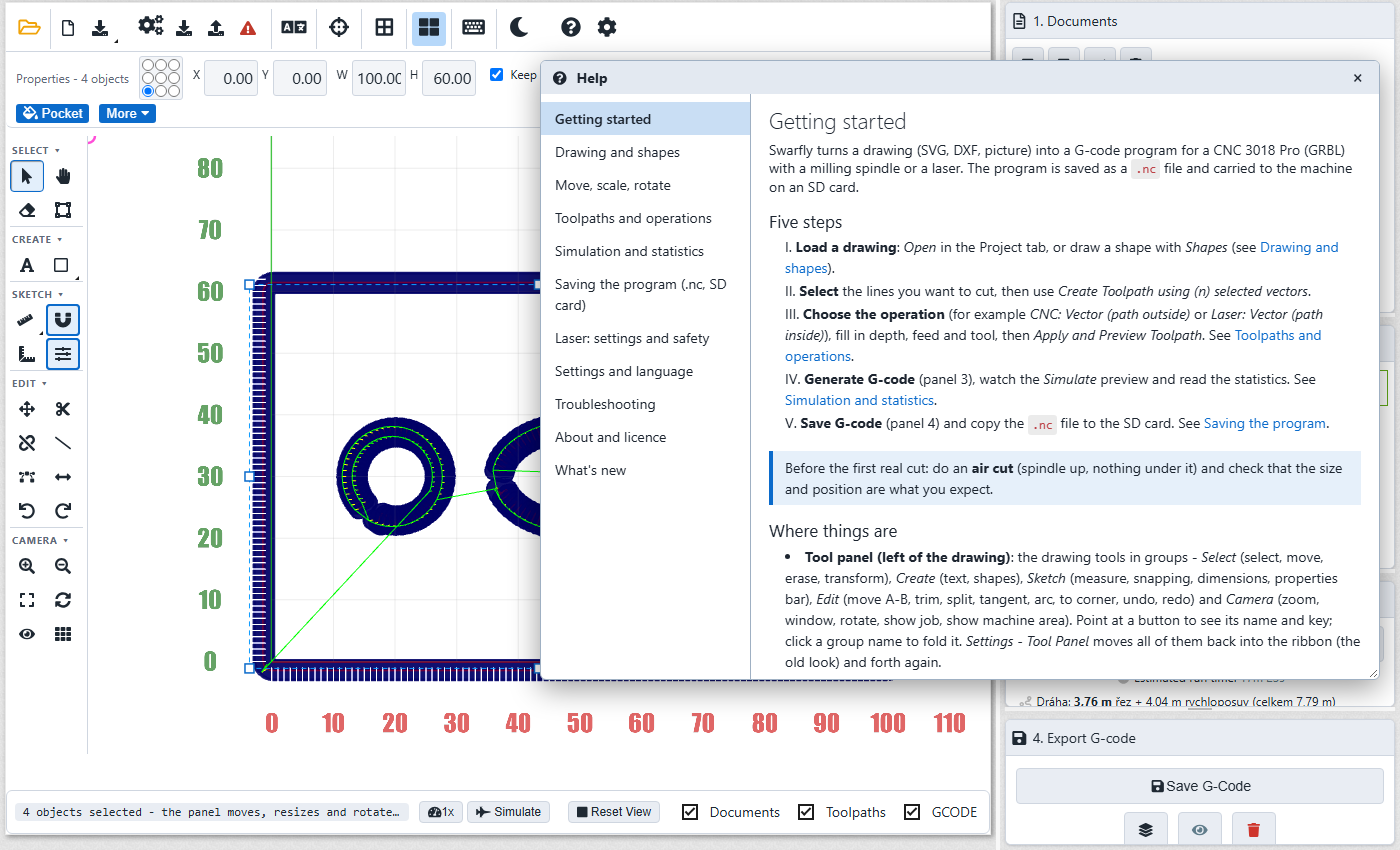
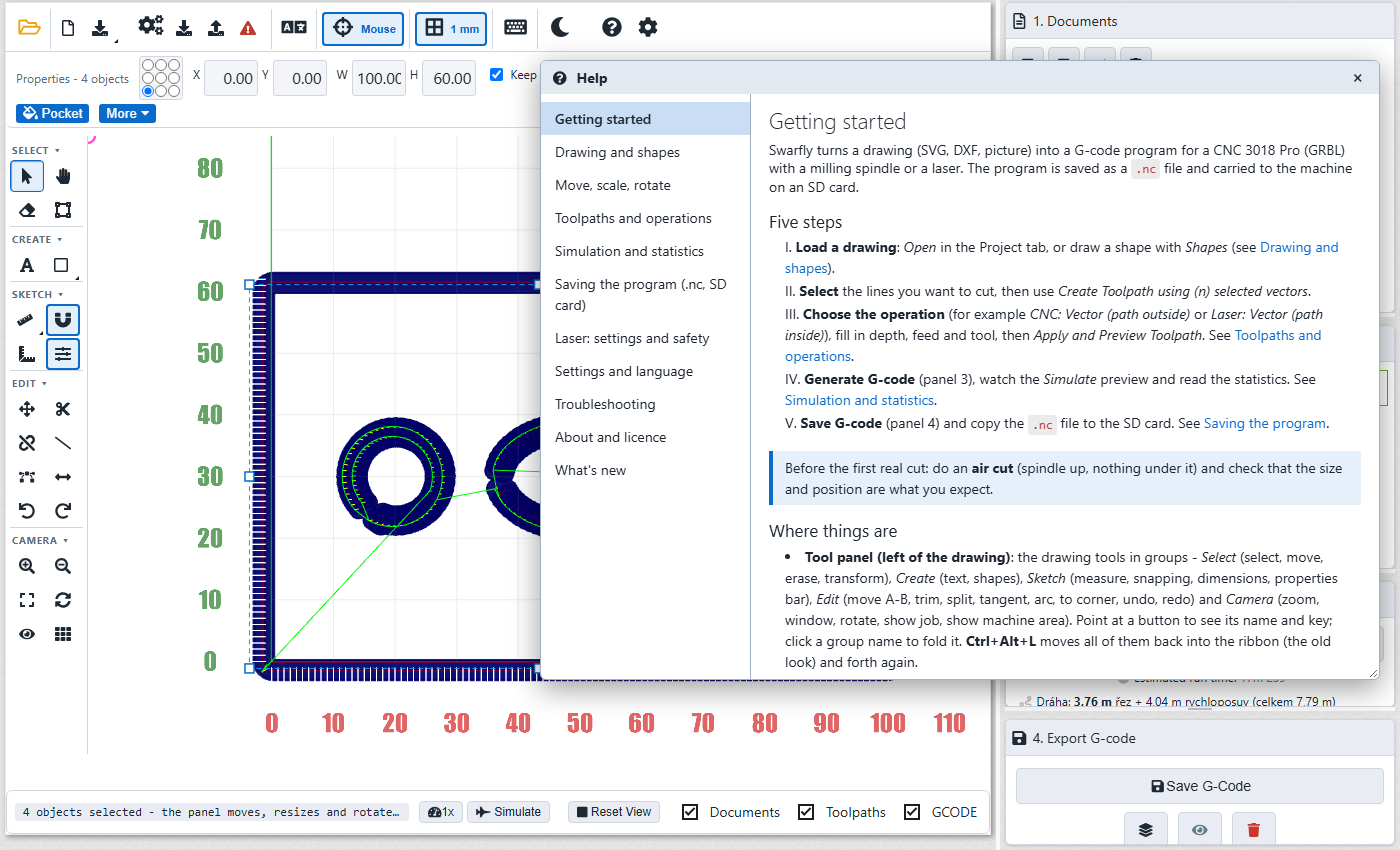
Swarfly 1.18.0: pressed state and value labels on the placement and grid buttons; layout switch moved to Ctrl+Alt+L

Changed region(s): [[0.215, 0.0, 0.4607, 0.0612], [0.6757, 0.7341, 0.9521, 0.7647], [0.5529, 0.7647, 0.6757, 0.7953]]

diff --git a/index.html b/index.html
@@ -397,11 +397,9 @@
 
 
 										<div class="group" id="languageGroup"><div class="ribbon-group"><button class="ribbon-button" onclick="swarflySwitchLanguage()" title="Language / Jazyk"><span class="icon"><i class="fas fa-language"></i></span><span class="caption" id="languageButtonCaption">Česky</span></button></div><span class="title">Language</span></div>
-										<div class="group" id="placeGroup"><div class="ribbon-group"><button class="ribbon-button" onclick="editorTogglePlace()" title="Where a new shape appears: under the mouse (click to drop) or at X0 Y0"><span class="icon"><i class="fas fa-crosshairs"></i></span><span class="caption">New shapes:<br><span id="editorPlaceCaption">With mouse</span></span></button></div><span class="title">Editor</span></div>
-										<div class="group" id="gridGroup"><div class="ribbon-group"><button class="ribbon-button" onclick="editorCycleGrid()" title="Grid step used by snapping (click to change: 1, 5, 10, 0.5, 0.1 mm, off)"><span class="icon"><i class="fas fa-border-all"></i></span><span class="caption">Snap grid:<br><span id="editorGridCaption">1 mm</span></span></button></div><span class="title">Snapping</span></div>
+										<div class="group" id="placeGroup"><div class="ribbon-group"><button class="ribbon-button" onclick="editorTogglePlace()" title="Where a new shape appears: under the mouse (click to drop) or at X0 Y0"><span class="icon"><i class="fas fa-crosshairs"></i></span><span class="sw-badge" id="editorPlaceBadge"></span><span class="caption">New shapes:<br><span id="editorPlaceCaption">With mouse</span></span></button></div><span class="title">Editor</span></div>
+										<div class="group" id="gridGroup"><div class="ribbon-group"><button class="ribbon-button" onclick="editorCycleGrid()" title="Grid step used by snapping (click to change: 1, 5, 10, 0.5, 0.1 mm, off)"><span class="icon"><i class="fas fa-border-all"></i></span><span class="sw-badge" id="editorGridBadge"></span><span class="caption">Snap grid:<br><span id="editorGridCaption">1 mm</span></span></button></div><span class="title">Snapping</span></div>
 											
-										<div class="group" id="layoutGroup"><div class="ribbon-group"><button class="ribbon-button" id="layoutButton" onclick="swarflyToggleLayout()" title="Where the drawing tools are: in a panel on the left (new) or in the ribbon at the top (old)"><span class="icon"><i class="fas fa-th-large"></i></span><span class="caption">Tool<br>Panel</span></button></div><span class="title">Layout</span></div>
-
 										<div class="group" id="shortcutsGroup"><div class="ribbon-group"><button class="ribbon-button" onclick="shortcutOpen()" title="Keyboard shortcuts: list, descriptions and your own keys"><span class="icon"><i class="fas fa-keyboard"></i></span><span class="caption">Keyboard<br>Shortcuts</span></button></div><span class="title">Keys</span></div>
 
 										<div class="group" style="display:none"><!-- 3018: Changelog + Fork hidden (link to upstream web) -->

diff --git a/test/e2e/tool-panel.spec.js b/test/e2e/tool-panel.spec.js
@@ -79,3 +79,20 @@ test('Layout button moves everything back into the ribbon and forth again', asyn
 	// every id is still unique
 	expect(await page.evaluate(() => ['editorTrimButton', 'undoButton', 'viewJobButton'].map((i) => document.querySelectorAll('#' + i).length))).toEqual([1, 1, 1]);
 });
+
+test('toolbar: the placement button stays pressed and the grid button shows the step as a number; Ctrl+Alt+L switches layout', async () => {
+	await page.evaluate(() => { localStorage.setItem('swarflyPlaceMouse', '1'); editorShowPlaceButton(); editorState.gridStep = 1; editorShowGridButton(); });
+	expect(await page.evaluate(() => document.getElementById('editorPlaceBadge').closest('button').classList.contains('ed-on'))).toBe(true);
+	expect(await page.textContent('#editorPlaceBadge')).toBe('Mouse');
+	await page.evaluate(() => document.getElementById('editorPlaceBadge').closest('button').click());
+	expect(await page.evaluate(() => document.getElementById('editorPlaceBadge').closest('button').classList.contains('ed-on'))).toBe(false);
+	expect(await page.textContent('#editorPlaceBadge')).toBe('X0 Y0');
+	expect(await page.textContent('#editorGridBadge')).toMatch(/^\d+(\.\d+)? mm$/);
+	await page.evaluate(() => document.getElementById('editorGridBadge').closest('button').click());
+	expect(await page.textContent('#editorGridBadge')).not.toBe('');
+	expect(await page.evaluate(() => document.querySelectorAll('#layoutButton').length)).toBe(0);
+	await page.keyboard.press('Control+Alt+L');
+	expect(await page.evaluate(() => document.body.classList.contains('sw-tools'))).toBe(false);
+	await page.keyboard.press('Control+Alt+L');
+	expect(await page.evaluate(() => document.body.classList.contains('sw-tools'))).toBe(true);
+});

diff --git a/js/editor.js b/js/editor.js
@@ -684,6 +684,9 @@ function editorCycleGrid() {
 function editorShowGridButton() {
   var cap = document.getElementById("editorGridCaption");
   if (cap) cap.textContent = editorState.gridStep > 0 ? editorState.gridStep + " mm" : "Off";
+  var badge = document.getElementById("editorGridBadge"), btn = badge ? badge.closest("button") : null;
+  if (badge) badge.textContent = editorState.gridStep > 0 ? editorState.gridStep + " mm" : "Off";   // the number shown next to the icon
+  if (btn) btn.classList.toggle("ed-on", editorState.gridStep > 0);
 }
 
 // ---- 1.5.1: move from point A to point B ---------------------------------------------------------------------------------
@@ -1532,6 +1535,10 @@ function editorTogglePlace() {
 function editorShowPlaceButton() {
   var cap = document.getElementById("editorPlaceCaption");
   if (cap) cap.textContent = editorPlaceWithMouse() ? "With mouse" : "At X0 Y0";
+  // compact toolbar: the button stays pressed while a new shape follows the mouse, and a small label says where it will appear
+  var badge = document.getElementById("editorPlaceBadge"), btn = badge ? badge.closest("button") : null;
+  if (badge) badge.textContent = editorPlaceWithMouse() ? "Mouse" : "X0 Y0";
+  if (btn) btn.classList.toggle("ed-on", editorPlaceWithMouse());
 }
 
 // ---- placement mode --------------------------------------------------------------------------------------------------

diff --git a/css/swarfly-ui.css b/css/swarfly-ui.css
@@ -350,3 +350,10 @@ body.sw-tools nav[data-role="ribbonmenu"] .section > .group { border-bottom: 0 !
 body.sw-tools nav[data-role="ribbonmenu"] .section > .group::after { display: none !important; }
 body.sw-tools nav[data-role="ribbonmenu"] button[onclick*="ConfirmDelete"] .icon { color: #c0392b; }
 body.sw-tools nav[data-role="ribbonmenu"] .content-holder .section { border-bottom: 0 !important; border-top: 0 !important; }
+
+/* value labels next to the placement and grid icons (the number is what is set) */
+.sw-badge { display: none; }
+body.sw-tools nav[data-role="ribbonmenu"] #placeGroup .ribbon-button, body.sw-tools nav[data-role="ribbonmenu"] #gridGroup .ribbon-button { width: auto !important; padding: 0 7px !important; gap: 5px; }
+body.sw-tools nav[data-role="ribbonmenu"] .sw-badge { display: inline; font-size: 11px; font-weight: 600; color: var(--sw-muted); white-space: nowrap; }
+body.sw-tools nav[data-role="ribbonmenu"] .ed-on { background: var(--sw-accent-soft) !important; border-color: var(--sw-accent) !important; }
+body.sw-tools nav[data-role="ribbonmenu"] .ed-on .sw-badge { color: var(--sw-accent); }

diff --git a/js/shortcuts-model.js b/js/shortcuts-model.js
@@ -34,6 +34,7 @@ var SHORTCUT_ACTIONS = [
   { id: "viewJob", group: "Camera", title: "Show the job", desc: "Fit the drawing in the view", keys: ["Home"] },
   { id: "viewMachine", group: "Camera", title: "Show the machine area", desc: "Fit the whole bed in the view", keys: ["Shift+Home"] },
 
+  { id: "layout", group: "Other", title: "Tool panel or ribbon", desc: "Switch between the tool panel layout and the old ribbon", keys: ["Ctrl+Alt+L"] },
   { id: "help", group: "Other", title: "Help", desc: "Open the help window", keys: ["F1"] }
 ];
 

diff --git a/js/shortcuts.js b/js/shortcuts.js
@@ -42,6 +42,7 @@ var SHORTCUT_RUN = {
   rotateView: function() { viewSetMode("orbit"); },
   viewJob: function() { resetView(); },
   viewMachine: function() { resetView(scene.getObjectByName("Grid")); },
+  layout: function() { swarflyToggleLayout(); },
   help: function() { openHelp(); }
 };
 

diff --git a/help/cs/start.md b/help/cs/start.md
@@ -15,7 +15,7 @@ Program se uloží jako soubor `.nc` a na stroj se přenese SD kartou.
 
 ## Kde co je
 
-- **Panel nástrojů (vlevo od výkresu)**: kreslicí nástroje ve skupinách - *Výběr* (výběr, posun, mazání, transformace), *Tvoření* (text, tvary), *Skica* (měření, přichytávání, rozměry, panel vlastností), *Upravit* (posun A-B, ořez, rozdělení, tečna, oblouk, do rohu, zpět, znovu) a *Kamera* (zoom, okno, otáčení, ukázat úlohu, ukázat pracovní plochu). Když najedeš na tlačítko, uvidíš název a klávesu; kliknutím na název skupiny ji sbalíš. *Nastavení - Panel nástrojů* vrátí všechno do pásu karet (staré rozložení) a zase zpět.
+- **Panel nástrojů (vlevo od výkresu)**: kreslicí nástroje ve skupinách - *Výběr* (výběr, posun, mazání, transformace), *Tvoření* (text, tvary), *Skica* (měření, přichytávání, rozměry, panel vlastností), *Upravit* (posun A-B, ořez, rozdělení, tečna, oblouk, do rohu, zpět, znovu) a *Kamera* (zoom, okno, otáčení, ukázat úlohu, ukázat pracovní plochu). Když najedeš na tlačítko, uvidíš název a klávesu; kliknutím na název skupiny ji sbalíš. **Ctrl+Alt+L** vrátí všechno do pásu karet (staré rozložení) a zase zpět.
 - **Lišta nahoře** (ve starém rozložení záložky Projekt, Nastavení a Nápověda): otevřít, nový projekt, uložit/otevřít projekt, nastavení, jazyk, motiv, klávesové zkratky, nápověda.
 - **Záložka Nastavení**: nastavení, záloha, jazyk, vzhled.
 - **Záložka Nápověda**: tlačítko *Nápověda* a tlačítko *Verze* (co je nového).

diff --git a/CHANGELOG.md b/CHANGELOG.md
@@ -6,7 +6,8 @@ Every release must have an entry here that matches the version in `package.json`
 ## [1.18.0] - 2026-11-07
 ### Changed
 - **New layout: a tool panel on the left of the drawing** instead of the tools in the ribbon. Groups *Select*, *Create*, *Sketch*, *Edit* and *Camera* (same groups as in the keyboard shortcuts); each button shows its name and key when pointed at, a click on a group name folds the group. The ribbon at the top becomes one plain toolbar without tabs (open, new, save, settings, backup, language, grid, tool panel, keys, theme, help, version); the properties bar stays under it. The buttons are the same ones as before (moved, not copied), so everything works as it did.
-- *Settings - Tool Panel* switches back to the old ribbon layout and forth again, without reloading (saved in the browser storage).
+- **Ctrl+Alt+L** (a keyboard shortcut, changeable in Settings) switches back to the old ribbon layout and forth again, without reloading (saved in the browser storage).
+- The *New shapes* (crosshair) button stays pressed while new shapes follow the mouse and shows *Mouse* or *X0 Y0*; the *Snap grid* button shows the step as a number (1 mm, 0.5 mm ... or Off).
 - The drawing area now starts to the right of the tool panel, so the panel no longer covers the left edge of the drawing (X0 Y0, new shapes, handles).
 - Distinct icons: *Move* (mouse, a hand) differs from *Move A-B*, *Transform* (a frame) differs from the measuring ruler; *Factory Reset* is red.
 ### Fixed

diff --git a/help/en/start.md b/help/en/start.md
@@ -15,7 +15,7 @@ The program is saved as a `.nc` file and carried to the machine on an SD card.
 
 ## Where things are
 
-- **Tool panel (left of the drawing)**: the drawing tools in groups - *Select* (select, move, erase, transform), *Create* (text, shapes), *Sketch* (measure, snapping, dimensions, properties bar), *Edit* (move A-B, trim, split, tangent, arc, to corner, undo, redo) and *Camera* (zoom, window, rotate, show job, show machine area). Point at a button to see its name and key; click a group name to fold it. *Settings - Tool Panel* moves all of them back into the ribbon (the old look) and forth again.
+- **Tool panel (left of the drawing)**: the drawing tools in groups - *Select* (select, move, erase, transform), *Create* (text, shapes), *Sketch* (measure, snapping, dimensions, properties bar), *Edit* (move A-B, trim, split, tangent, arc, to corner, undo, redo) and *Camera* (zoom, window, rotate, show job, show machine area). Point at a button to see its name and key; click a group name to fold it. **Ctrl+Alt+L** moves all of them back into the ribbon (the old look) and forth again.
 - **Toolbar at the top** (in the old ribbon layout: the Project, Settings and Help tabs): open, new project, save/open project, settings, language, theme, keyboard shortcuts, help.
 - **Settings tab**: settings, backup, language, theme.
 - **Help tab**: the *Help* button and the *Version* button (what is new).
